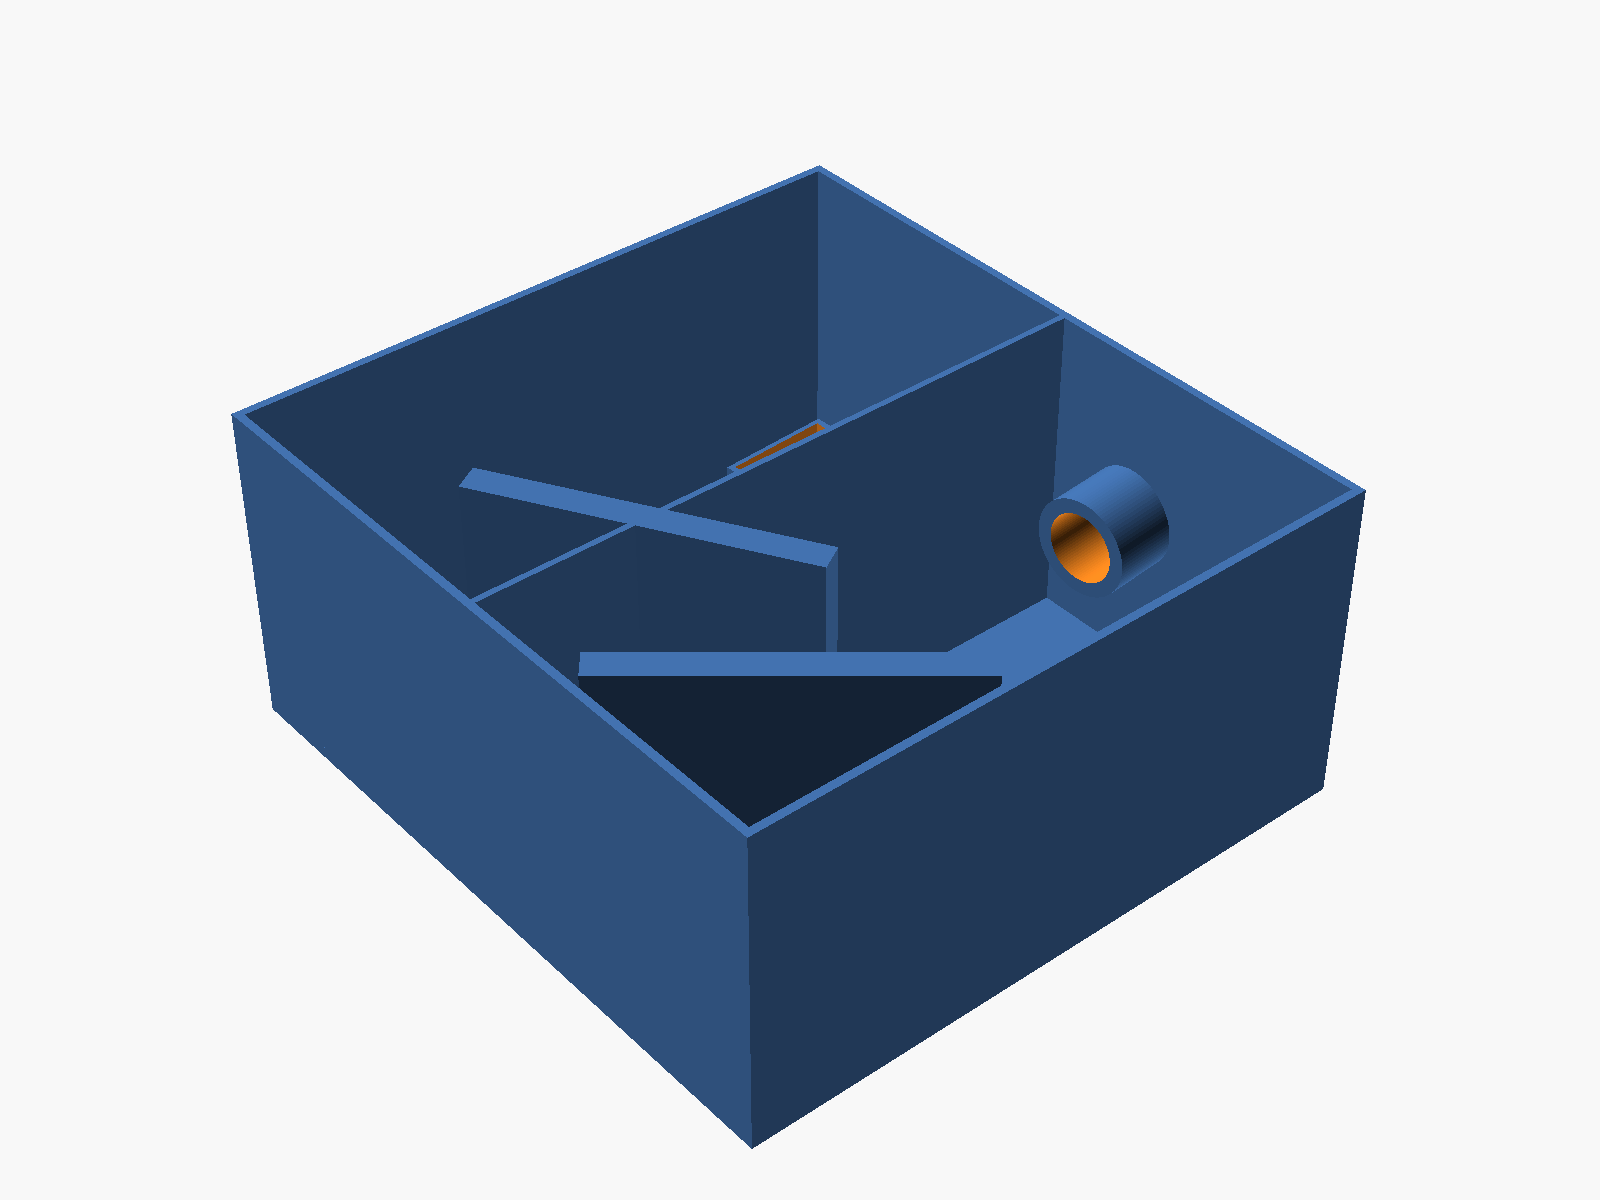
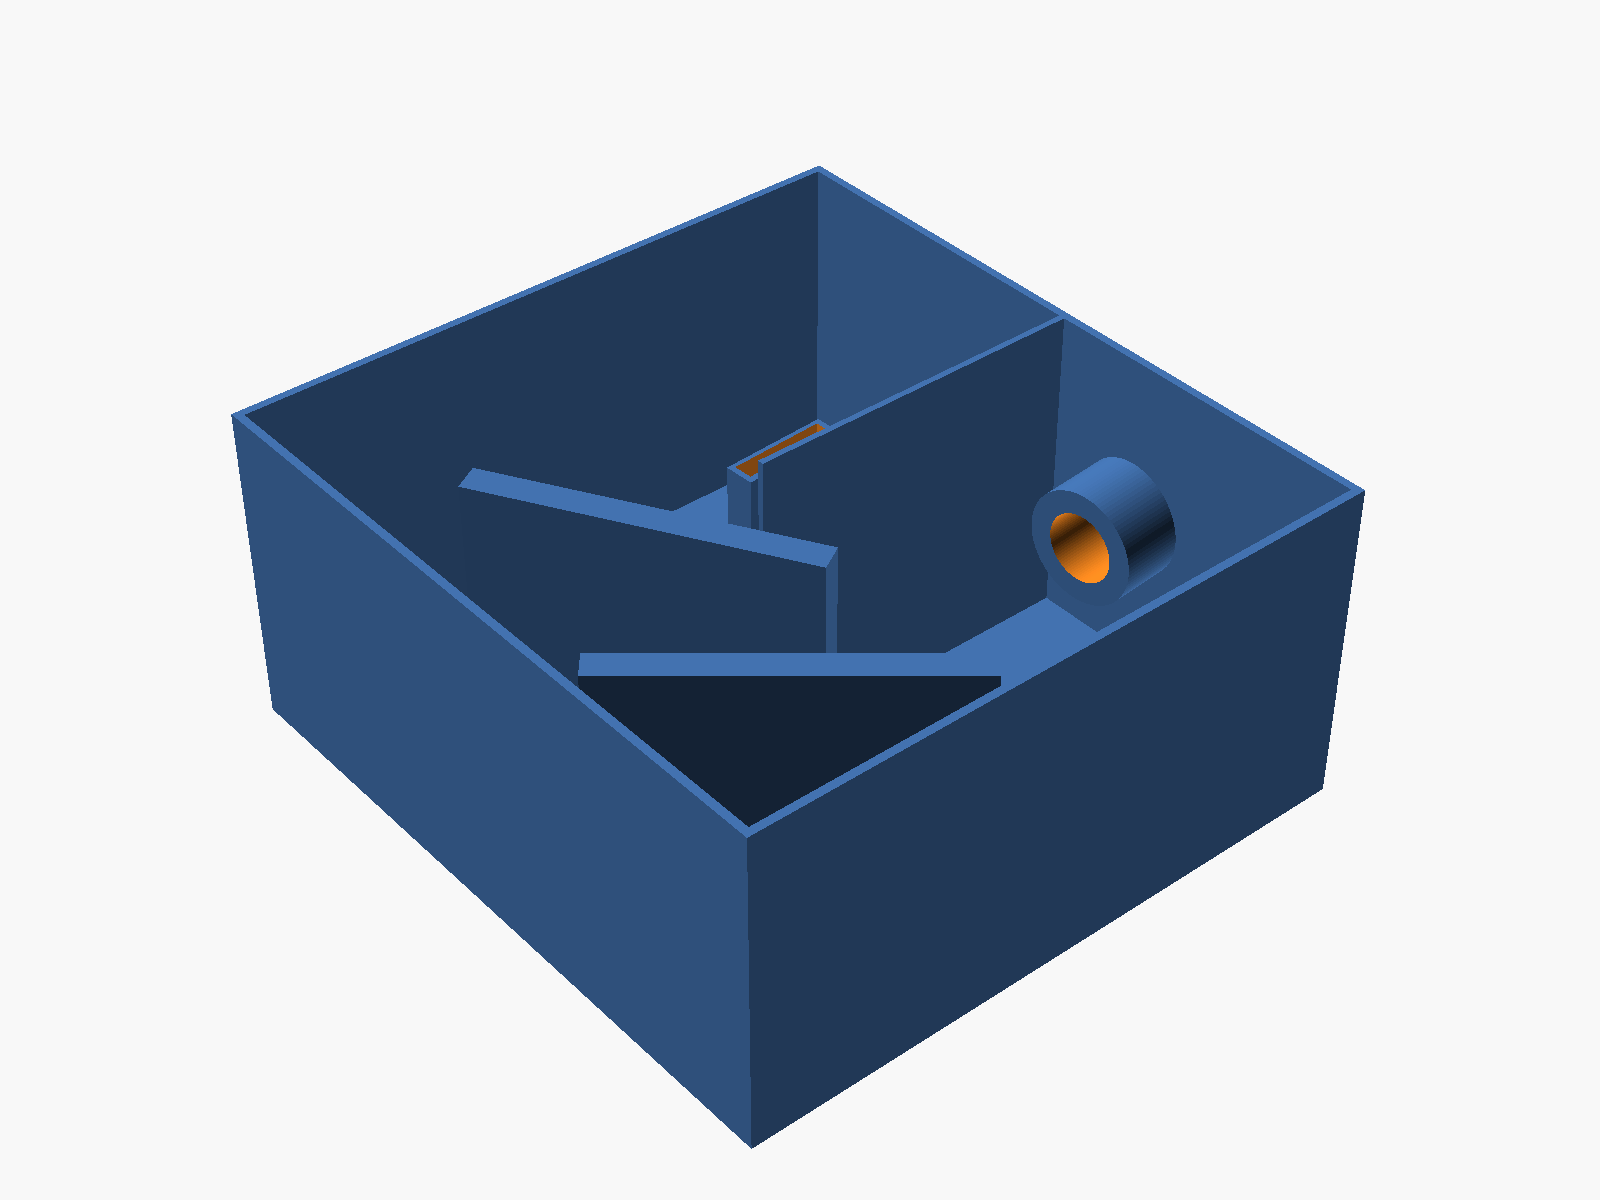
Body: printed M42x0.75 camera + M48x0.75 telescope threads; trim vane clear of OAP1; widen snout
Vane now ends at bx=68 (the OAP1 mount slab is the separator beyond) —
it previously spanned the full width and collided with the mirror
substrate envelope. Twisted-lobe thread former for both female ports;
snout entry bore widened to 26 mm vs ~20 mm beam.

diff --git a/design/BODY.md b/design/BODY.md
@@ -22,13 +22,19 @@ raytrace.
   (10 deg) about vertical so the jaw reflection dumps onto the interior
   wall, not back up the snout. Pocket sized for a 12 x 22 x 3.2 slide —
   measure the actual Shelyak slit holder and adjust.
-- Enclosed snout from the telescope flange (front wall) to the slit; the
-  flange bore is 38 mm, adapt to T2/2" with a threaded insert or bonded
-  adapter.
+- Enclosed snout from the telescope flange (front wall) to the slit.
+  Telescope interface: PRINTED M48 x 0.75 female thread, 9 mm deep, in
+  the flange face (0.35 mm radial print clearance; entry chamfer).
 - Camera tunnel from the sensor plane through the front wall along the
-  focused chief (5 deg off the deck axis); bore 34 mm; bolt a helical
-  focuser + ToupTek adapter to the exterior face. Sensor plane sits at
-  the interior end of the tunnel — set back-focus with the focuser.
+  focused chief (5 deg off the deck axis); bore 34 mm. Camera/focuser
+  interface: PRINTED M42 x 0.75 (T2) female thread, 9 mm deep, at the
+  exterior end. Sensor plane sits at the interior end of the tunnel —
+  set back-focus with the helical focuser.
+- Printed-thread rules (both ports): 0.10-0.15 mm layers over the thread
+  region, slow perimeters, no supports in the bore; chase gently with the
+  mating metal part; if a print tears, bump camThreadClr by +0.1. The
+  thread form is a twisted-lobe ~55-60 deg flank approximation — mates
+  fine with metal T2/M48 rings in practice.
 - Grating rotator: deck turntable, vertical steel dowel pivot (8 mm), the
   rotor registers the grating FRONT face on the pivot-axis plane
   (thickness-agnostic: 50x50x9.5 direct, Shelyak 25x25x6 via
